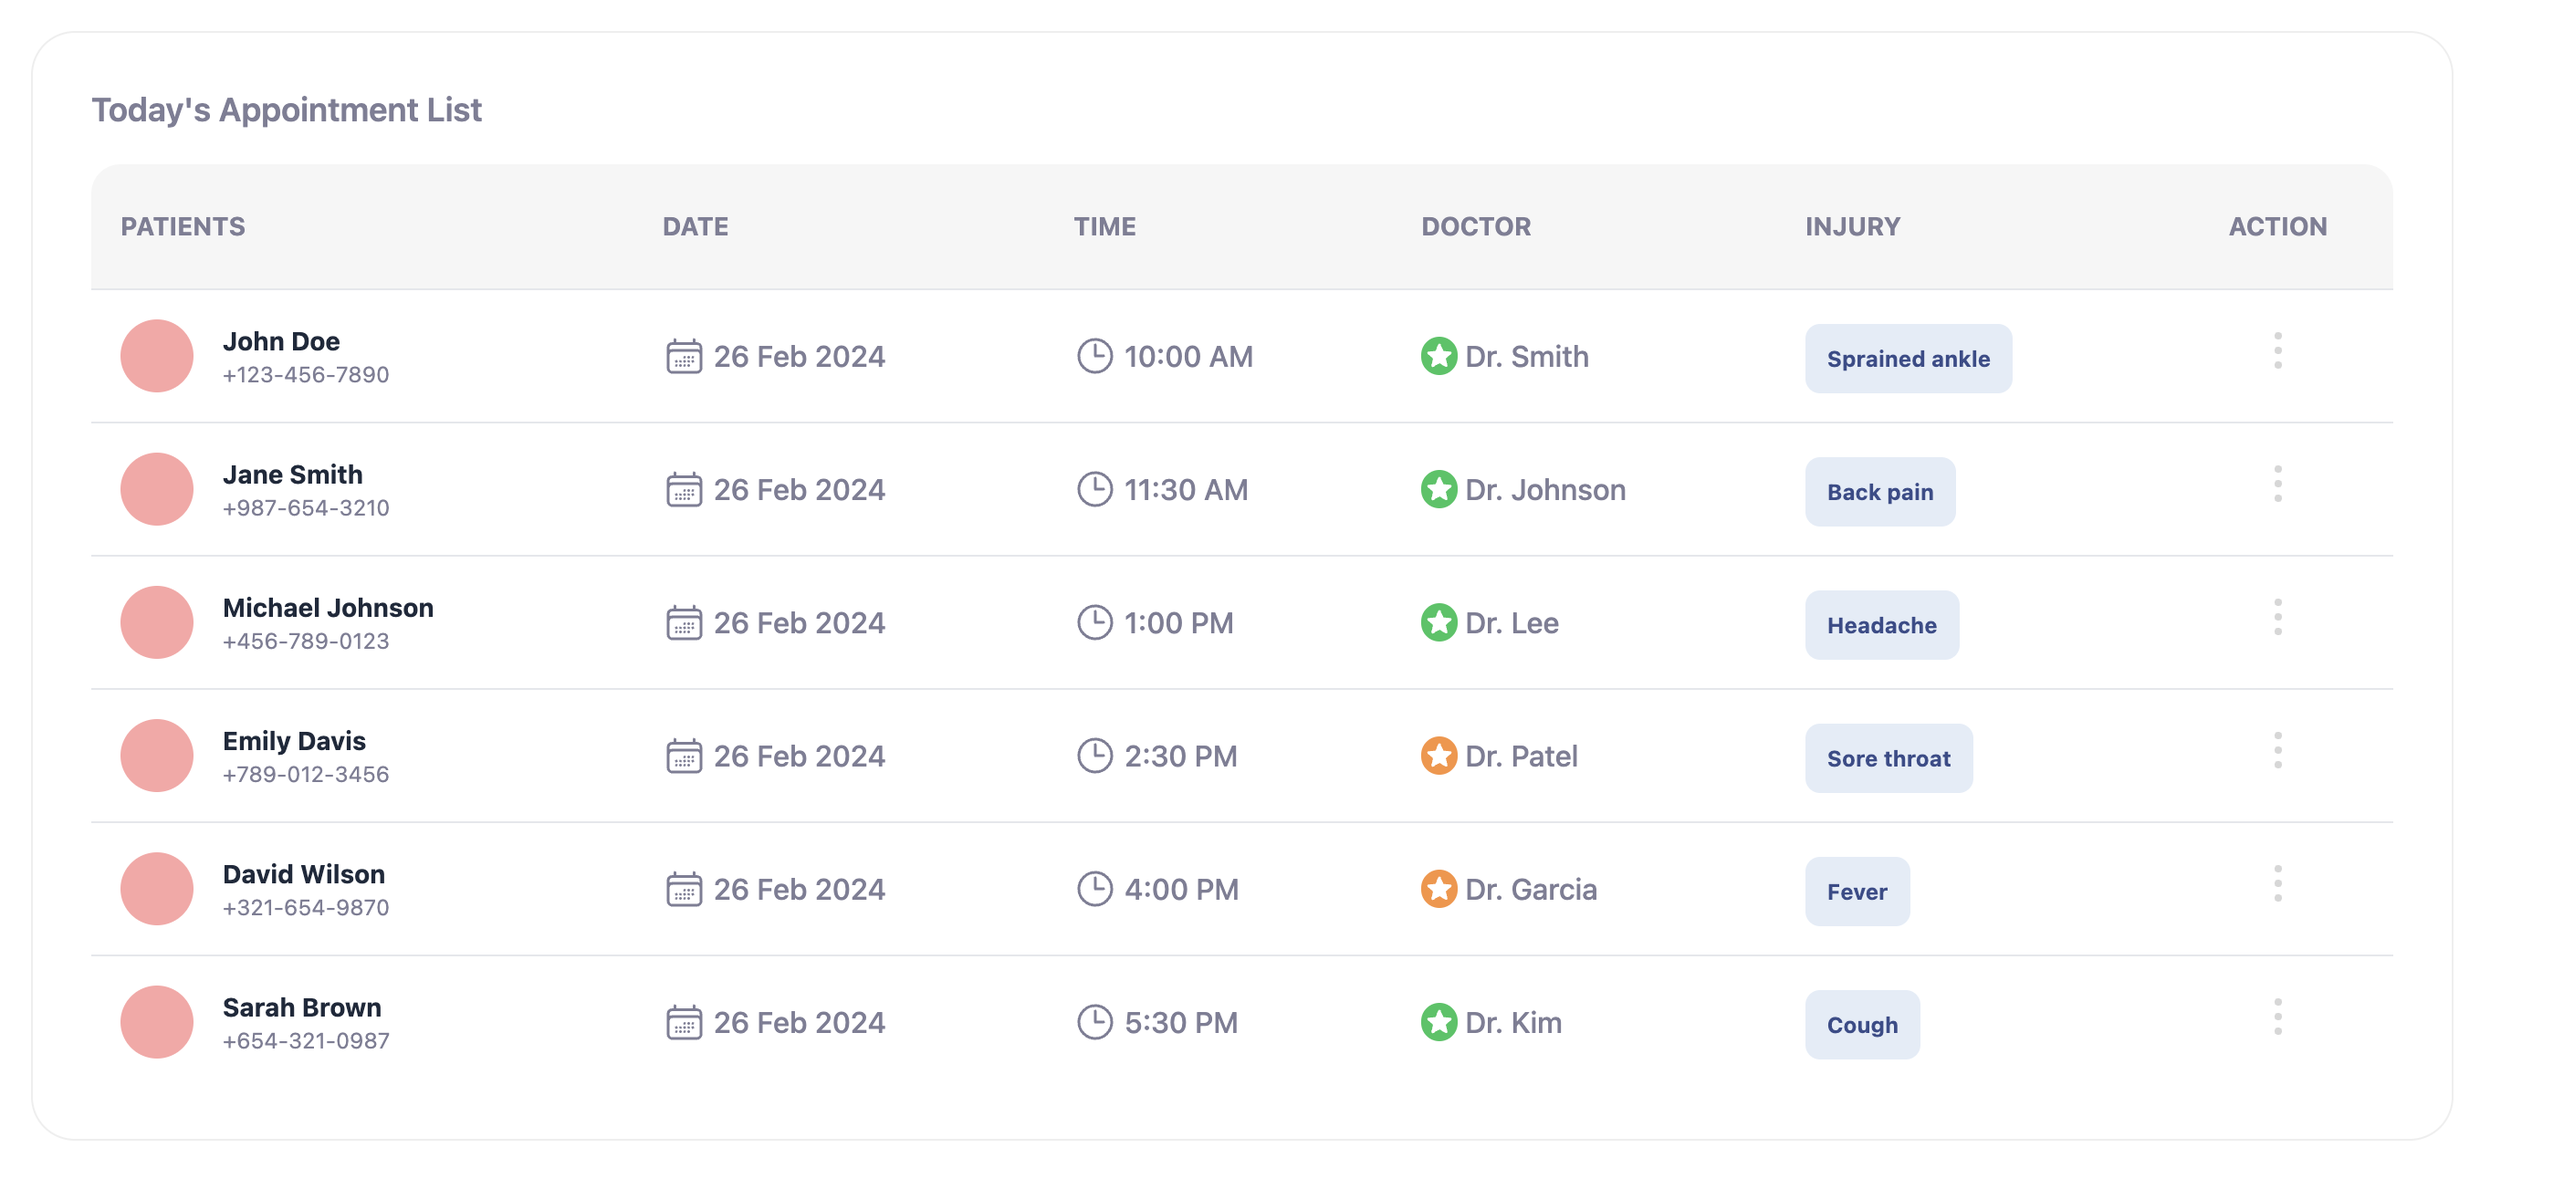
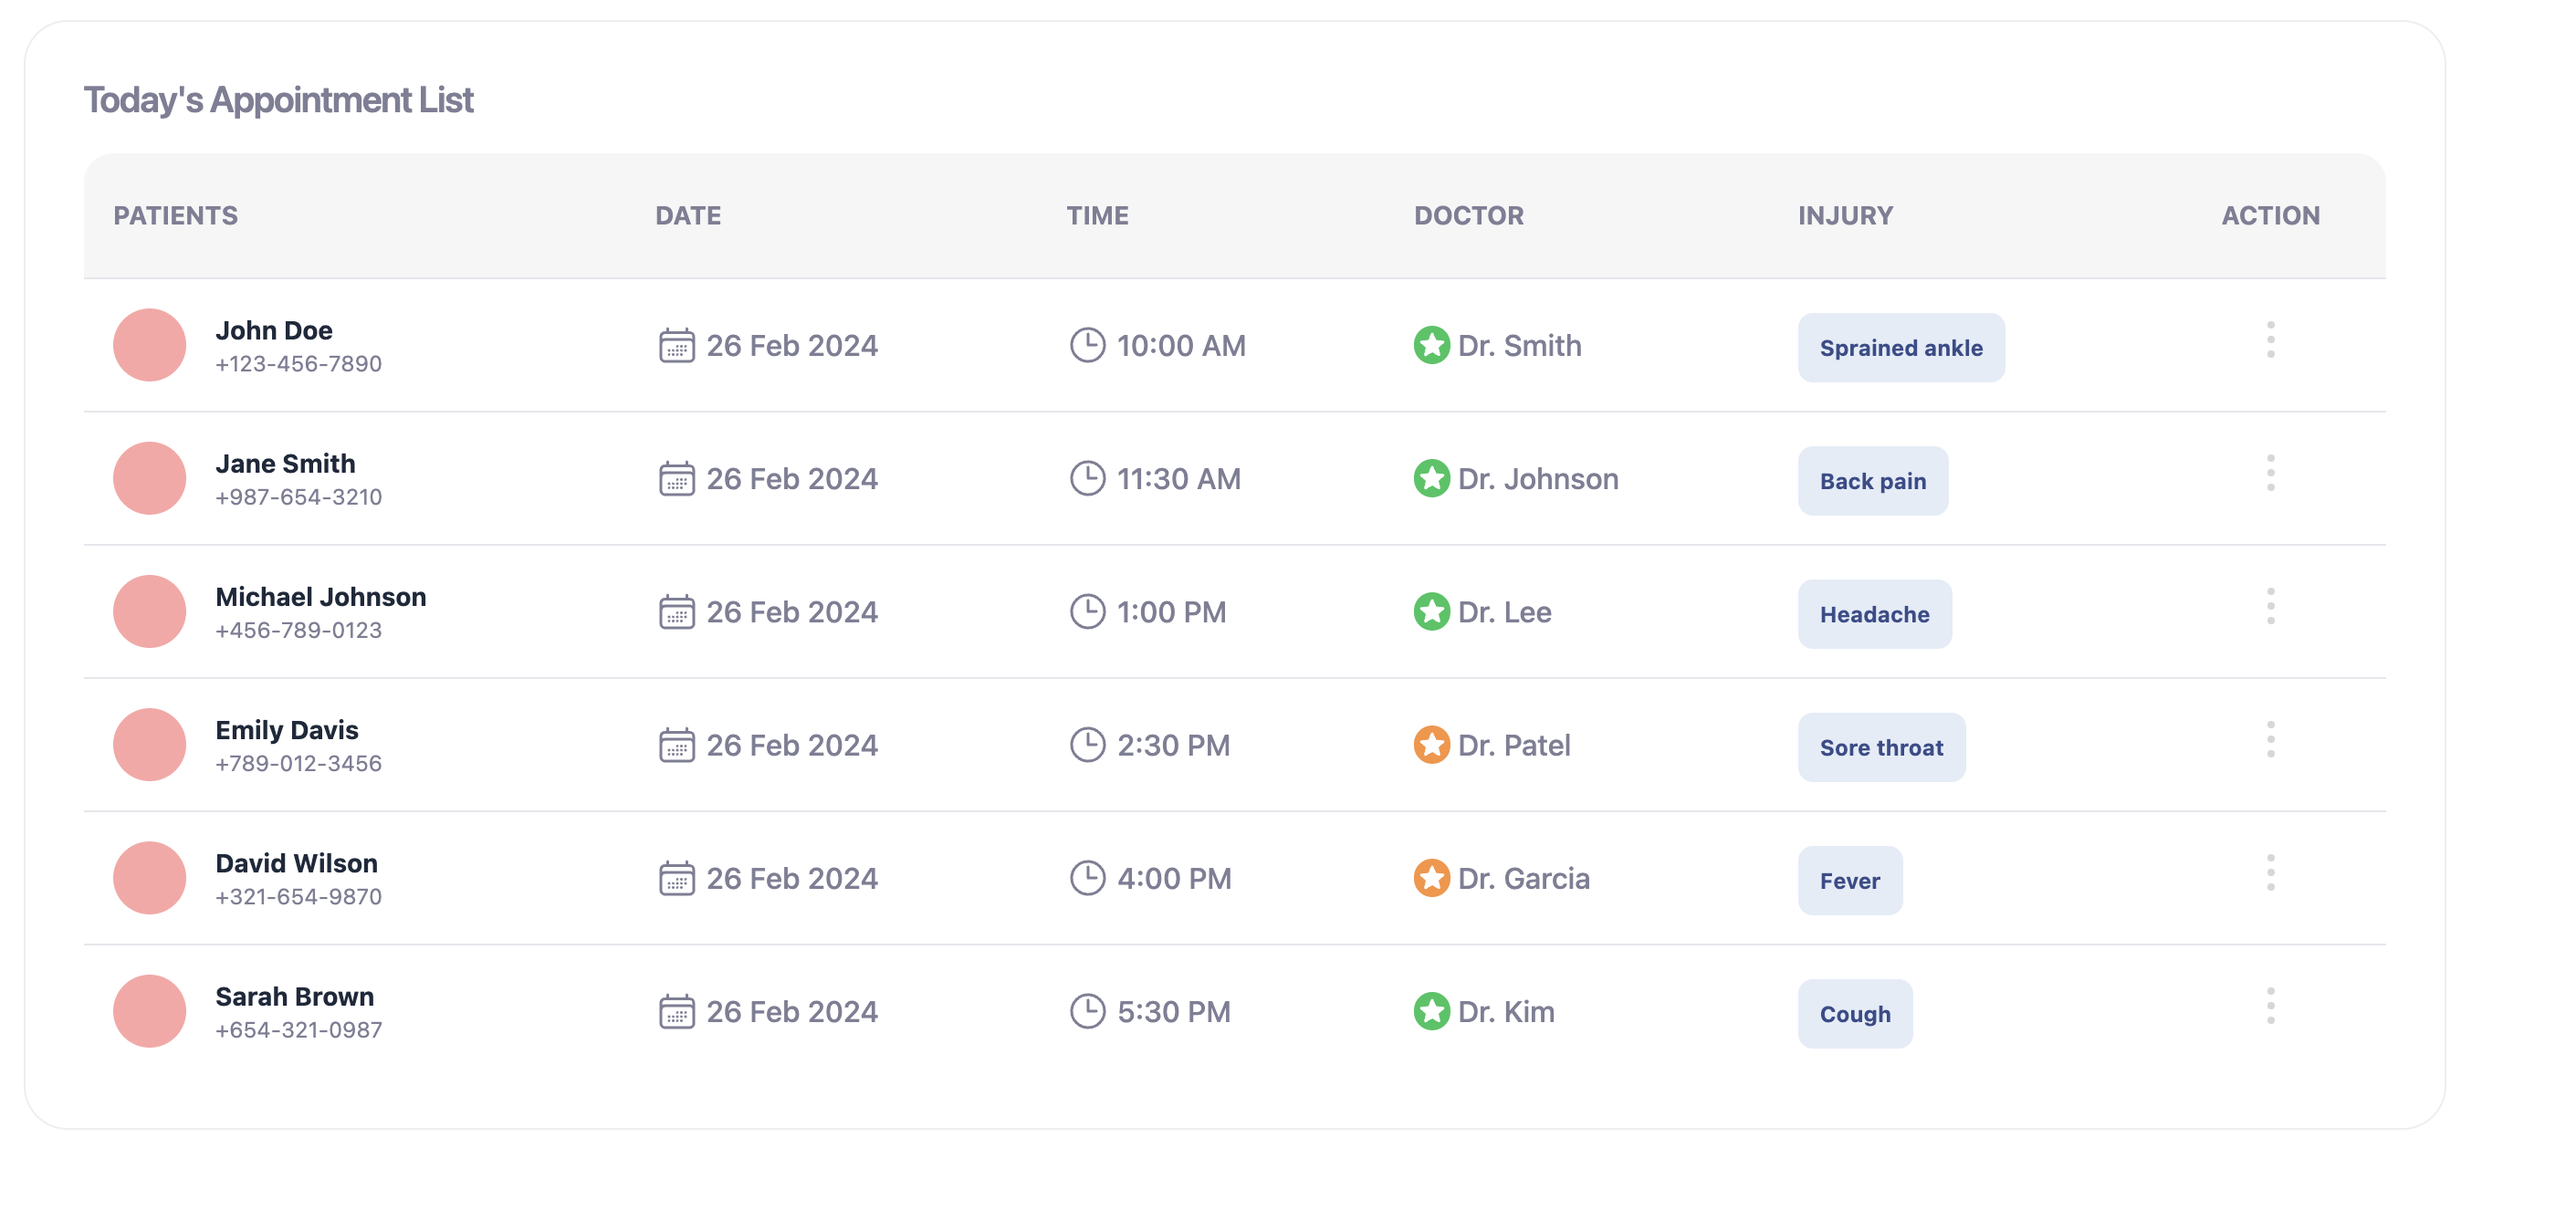
updated image of final result

diff --git a/Solution/src/components/Page/Heading.js b/Solution/src/components/Page/Heading.js
@@ -2,7 +2,7 @@ import React from 'react'
 
 const Heading = () => {
     return (
-        <h2 className='font-semibold text-lg text-[var(--theme-text-color)] mb-4'>Today's Appointment List</h2>
+        <h2 className='font-semibold text-xl text-[var(--theme-text-color)] mb-4'>Today's Appointment List</h2>
     )
 }
 
